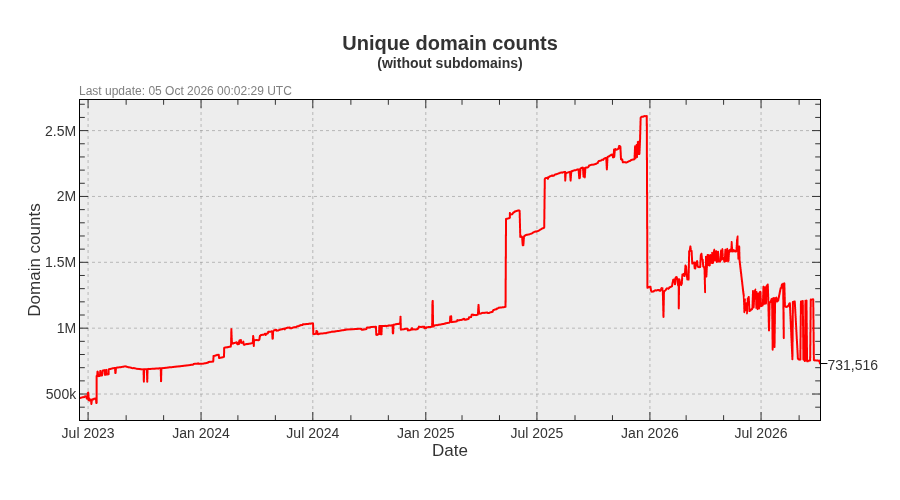
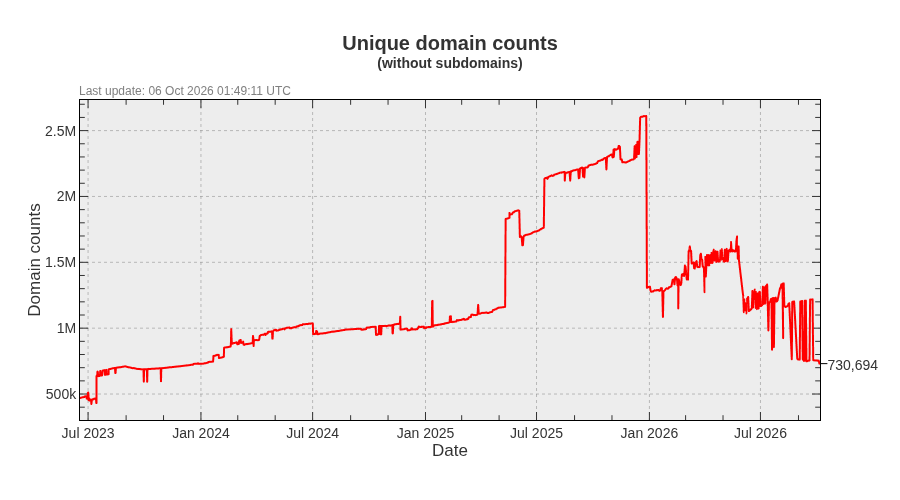
Update pages

diff --git a/README.md b/README.md
@@ -3,22 +3,22 @@ A blocklist file for blocking ads, trackers and malware domains.
 
[1 lines of base64/hex data omitted]
 
-- Unique domains: 1,451,723
-- Without subdomains: 731,516
-- Last update: 05 Oct 2026 00:02:29 UTC
-- Version: 2026.10.05.01
+- Unique domains: 1,450,614
+- Without subdomains: 730,694
+- Last update: 06 Oct 2026 01:49:11 UTC
+- Version: 2026.10.06.01
 
 
 ## Downloads:
 
 | Format             | Domain count      | Download Link |
 |------------------ | -----------------|-------------|
-| *Adblock Plus*     | 731,516 | [bad-hosts-abp](https://dl.cenk.app/bad-hosts/bad-hosts-abp) |
-| *Wildcard domains* | 731,516 | [bad-hosts-wildcard](https://dl.cenk.app/bad-hosts/bad-hosts-wildcard) |
-| *dnsmasq*          | 731,516 | [bad-hosts-dnsmasq](https://dl.cenk.app/bad-hosts/bad-hosts-dnsmasq) |
-| *hosts*            | 1,451,723 | [hosts](https://dl.cenk.app/bad-hosts/hosts) |
-| *hosts (ipv6)*     | 1,451,723 | [hosts-ipv6](https://dl.cenk.app/bad-hosts/hosts-ipv6) |
-| *Plain domains*    | 1,451,723 | [bad-hosts-domains](https://dl.cenk.app/bad-hosts/bad-hosts-domains) |
+| *Adblock Plus*     | 730,694 | [bad-hosts-abp](https://dl.cenk.app/bad-hosts/bad-hosts-abp) |
+| *Wildcard domains* | 730,694 | [bad-hosts-wildcard](https://dl.cenk.app/bad-hosts/bad-hosts-wildcard) |
+| *dnsmasq*          | 730,694 | [bad-hosts-dnsmasq](https://dl.cenk.app/bad-hosts/bad-hosts-dnsmasq) |
+| *hosts*            | 1,450,614 | [hosts](https://dl.cenk.app/bad-hosts/hosts) |
+| *hosts (ipv6)*     | 1,450,614 | [hosts-ipv6](https://dl.cenk.app/bad-hosts/hosts-ipv6) |
+| *Plain domains*    | 1,450,614 | [bad-hosts-domains](https://dl.cenk.app/bad-hosts/bad-hosts-domains) |
 
 ## Domain count history
 ### With subdomains
